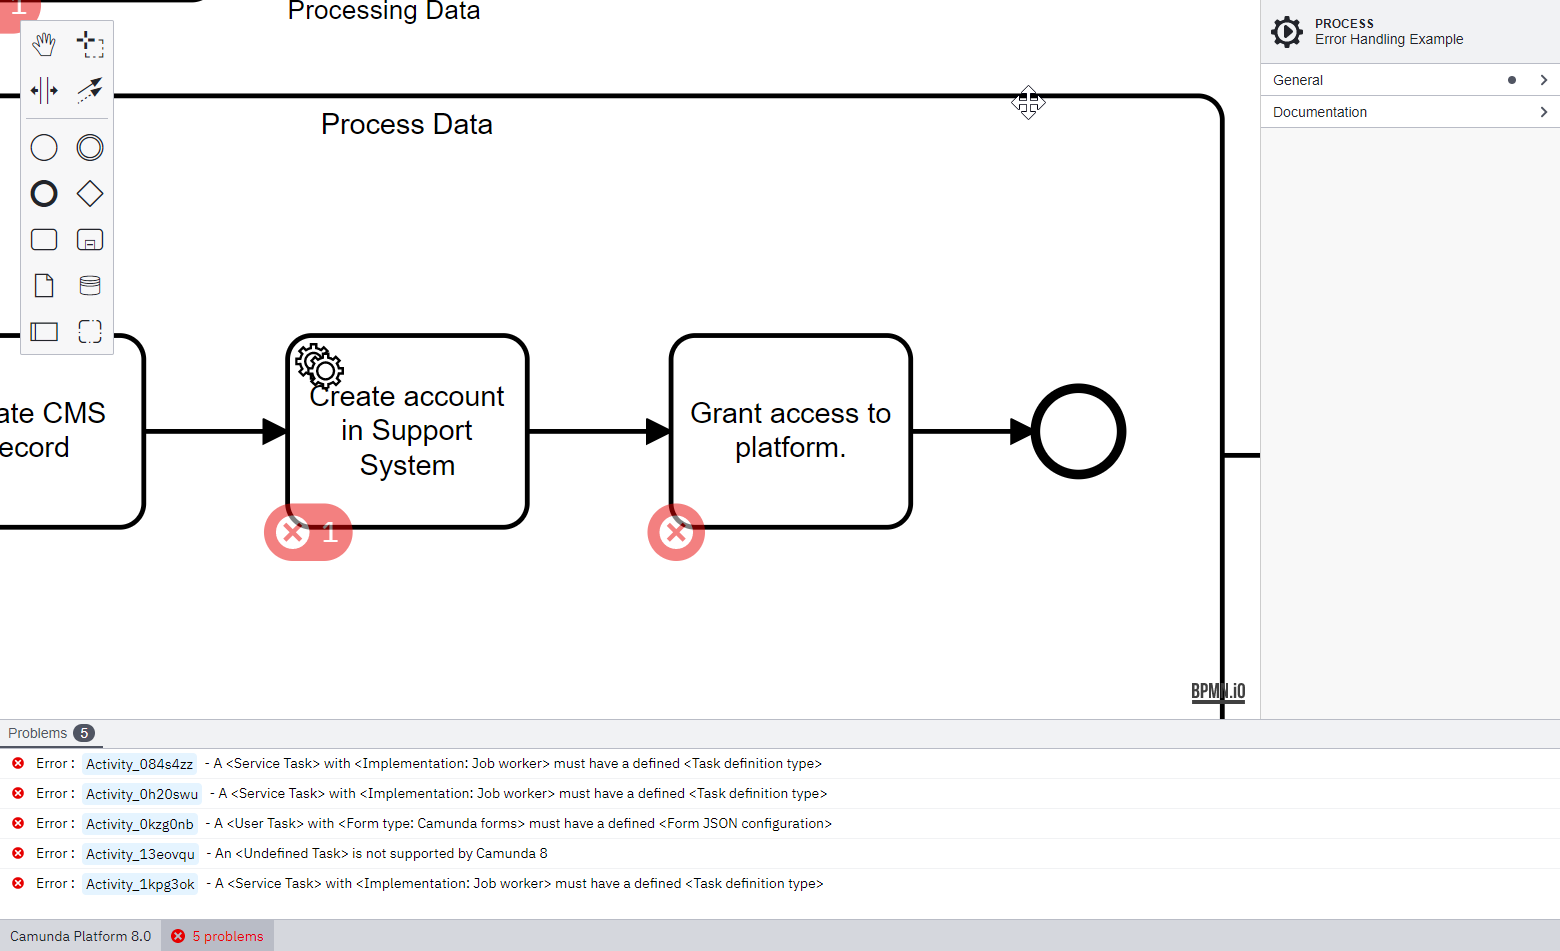
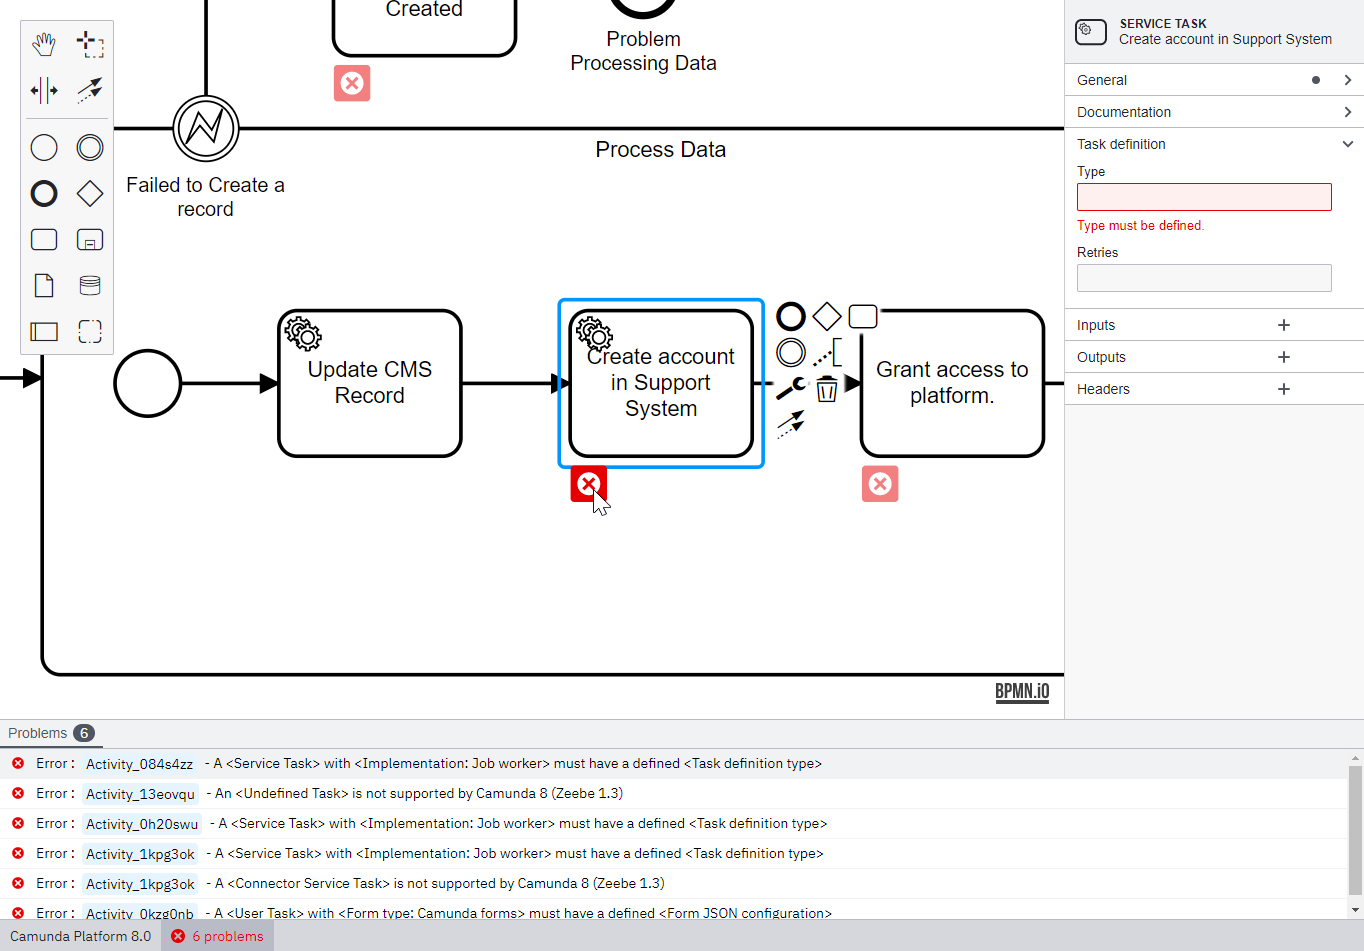
feat: update

diff --git a/src/styles.css b/src/styles.css
@@ -272,18 +272,19 @@ body.opacity-1 .djs-overlays:not(.hover) .linting-annotation {
   opacity: 0.5;
 }
 
+body.opacity-1 .linting-annotation:hover,
 body.opacity-1 .djs-overlays.hover .linting-annotation {
-  opacity: 1;
+  opacity: 1 !important;
 }
 
-/* Variant 1 - Operate */
-body.variant-1 .linting-annotation {
+/* Variant 2 */
+body.variant-2 .linting-annotation {
   display: flex;
   flex-direction: row;
   align-items: center;
   font-family: 'IBM Plex Sans', sans-serif;
   font-size: 12px;
-  padding: 2px 2px;
+  padding: 1px;
   border-radius: 100px;
   color: var(--color-grey-225-10-35);
   /* background-color: var(--color-grey-225-10-95); */
@@ -302,42 +303,6 @@ body.variant-1 .linting-annotation {
   display: initial;
 }
 
-body.variant-1 .linting-annotation:hover {
-  /* background-color: var(--color-grey-225-10-90); */
-  opacity: 1;
-}
-
-body.variant-1 .linting-annotation svg {
-  /* fill: var(--color-red-360-100-45); */
-  fill: var(--color-white);
-  width: 20px;
-  height: 20px;
-  /* margin-left: -4px; */
-}
-
-body.variant-1 .linting-annotation span {
-  line-height: 20px;
-  padding-right: 4px;
-  padding-left: 2px;
-  color: var(--color-white);
-}
-
-/* Variant 2 - Web Modeler */
-body.variant-2 .linting-annotation {
-  display: flex;
-  flex-direction: row;
-  align-items: center;
-  font-family: 'IBM Plex Sans', sans-serif;
-  font-size: 12px;
-  padding: 2px 2px;
-  border-radius: 2px;
-  color: var(--color-grey-225-10-35);
-  /* background-color: var(--color-grey-225-10-95); */
-  background-color: var(--color-red-360-100-45);
-  cursor: default;
-  z-index: 100000;
-}
-
 body.variant-2 .linting-annotation:hover {
   /* background-color: var(--color-grey-225-10-90); */
   opacity: 1;
@@ -346,56 +311,65 @@ body.variant-2 .linting-annotation:hover {
 body.variant-2 .linting-annotation svg {
   /* fill: var(--color-red-360-100-45); */
   fill: var(--color-white);
-  width: 20px;
-  height: 20px;
+  width: 18px;
+  height: 18px;
   /* margin-left: -4px; */
 }
 
 body.variant-2 .linting-annotation span {
-  line-height: 20px;
+  line-height: 18px;
   padding-right: 4px;
   padding-left: 2px;
   color: var(--color-white);
 }
 
-/* Variant 3 - Web Modeler */
-body.variant-3 .linting-annotation {
+/* Variant 2 - Web Modeler */
+/* body.variant-2 .linting-annotation {
   display: flex;
   flex-direction: row;
   align-items: center;
   font-family: 'IBM Plex Sans', sans-serif;
   font-size: 12px;
-  padding: 2px;
+  padding: 2px 2px;
   border-radius: 2px;
   color: var(--color-grey-225-10-35);
-  /* background-color: var(--color-grey-225-10-95); */
   background-color: var(--color-red-360-100-45);
   cursor: default;
   z-index: 100000;
-  position: relative;
-}
+} */
 
-body.variant-3 .linting-annotation:hover {
+body .linting-annotation:hover {
   /* background-color: var(--color-grey-225-10-90); */
   opacity: 1;
 }
 
-body.variant-3 .linting-annotation svg {
-  /* fill: var(--color-red-360-100-45); */
+/* body .linting-annotation svg {
   fill: var(--color-white);
-  width: 16px;
-  height: 16px;
-  /* margin-left: -4px; */
+  width: 20px;
+  height: 20px;
+}*/
+
+body .linting-annotation span {
+  line-height: 18px;
+  padding-right: 4px;
+  padding-left: 2px;
+  color: var(--color-white);
 }
 
-body.variant-3 .linting-annotation span {
-  line-height: 20px;
-  color: var(--color-white);
-  position: absolute;
-  bottom: -15px;
-  left: 13px;
-  border-radius: 100px;
-  padding: 0px 6px;
+body .linting-annotation {
+  display: flex;
+  flex-direction: row;
+  align-items: center;
+  padding: 1px;
+  border-radius: 2px;
   background-color: var(--color-red-360-100-45);
-  border: solid 2px var(--color-white);
+  cursor: default;
+  z-index: 100000;
+}
+
+
+body .linting-annotation > svg {
+  fill: var(--color-white);
+  width: 18px;
+  height: 18px;
 }

diff --git a/README.md b/README.md
@@ -10,7 +10,7 @@
 | `opacity` | `0` or `1` | Whether to give annotations less than full opacity unless they're hovered |
 | `position` | `top` or `bottom` | Where to position the annotations |
 | `toggle` | `0` or `1` | Whether to toggle errors in the properties panel when toggling the error panel |
-| `variant` | `1`, `2`, `3` | What styling to use |
+| `variant` | `1`, `2` | What styling to use |
 
 Example: http://philippfrom.me/linting-playground?number=0&opacity=1&position=bottom&toggle=0&variant=1
 
